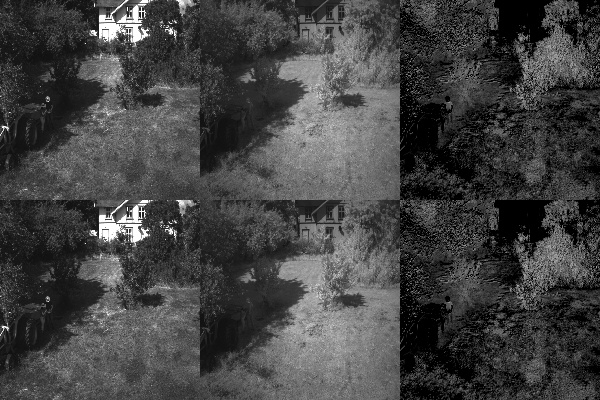
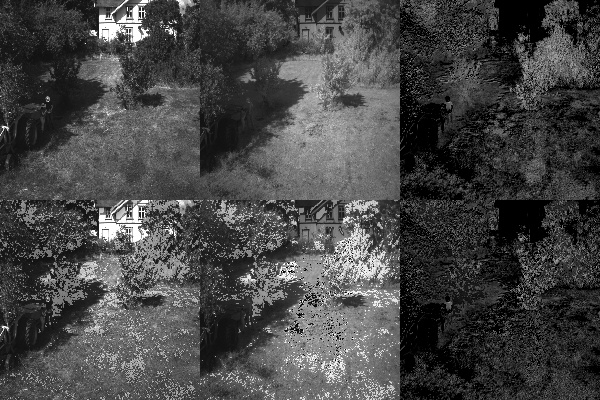
Successful creation of HSV shadow detection method based on false color image of RGB versus RGNIR

diff --git a/Sprint3/overall.py b/Sprint3/overall.py
@@ -300,6 +300,8 @@ def batch_nir_coordination_function():
 	# 0510 is RGB, 0511 is Blue, 0512 is Green, 0513 is Red, 0514 is RedEdge, 0515 is NIR
 
 	rgb_list = []
+	blue_list = []
+	green_list = []
 	red_list = []
 	nir_list = []
 
@@ -310,6 +312,12 @@ def batch_nir_coordination_function():
 		if (fname[-1] == "0"):
 			rgb_image = image
 			rgb_list.append(rgb_image)
+		if (fname[-1] == "1"):
+			blue_image = image
+			blue_list.append(blue_image)
+		if (fname[-1] == "2"):
+			green_image = image
+			green_list.append(green_image)			
 		if (fname[-1] == "3"):
 			red_image = image
 			red_list.append(red_image)
@@ -318,26 +326,27 @@ def batch_nir_coordination_function():
 			nir_list.append(nir_image)
 
 	ndvi_list = []
+	deshadowed_ndvi_list = []
 
 	for i in range(0, len(rgb_list)):
+		# Open images from filepaths
 		rgb_image = cv2.imread(multi_folder + "/" + rgb_list[i])
 		red_image = cv2.imread(multi_folder + "/" + red_list[i])
 		nir_image = cv2.imread(multi_folder + "/" + nir_list[i])
-
-		# Process set of images in selected algorithm - to be developed
-		# red_mask, red_processed, nir_mask, nir_processed = multispectral_algorithm(red_image, nir_image)
+		blue_image = cv2.imread(multi_folder + "/" + blue_list[i])
+		green_image = cv2.imread(multi_folder + "/" + green_list[i])
 
 		# Run and save plant health algorithm on original and de-shadowed images
+
+		deshadowed_red_image, deshadowed_nir_image = nir_b_ratio(blue_image, green_image, red_image, nir_image)
+		deshadowed_ndvi_image = ndvi_plant(deshadowed_red_image, deshadowed_nir_image)
+		deshadowed_ndvi_list.append(deshadowed_ndvi_image)
+		cv2.imwrite(output_folder + "/" + "deshadowed_ndvi_" + str(i) + ".jpg", 255*deshadowed_ndvi_image)
 
 		ndvi_image = ndvi_plant(red_image, nir_image)
 		ndvi_list.append(ndvi_image)
 		cv2.imwrite(output_folder + "/" + "ndvi_" + str(i) + ".jpg", 255*ndvi_image)
 
-		# Replace with results of multispectral deshadowing
-		deshadowed_red_image = red_image
-		deshadowed_nir_image = nir_image
-		deshadowed_ndvi_image = ndvi_image
-		# deshadowed_ndvi_image = ndvi_plant(deshadowed_red_image, deshadowed_nir_image)
 
 		c_red_image = cv2.resize(cv2.cvtColor(red_image, cv2.COLOR_BGR2GRAY), (200,200))
 		c_nir_image = cv2.resize(cv2.cvtColor(nir_image, cv2.COLOR_BGR2GRAY), (200,200))
@@ -383,6 +392,72 @@ def rgb_coordination_function():
 		# need to correct this for negative
 
 	return
+
+def nir_b_ratio(blue_band, green_band, red_band, nir_band):
+	
+	# Shadows become darker than non-shadow regions when comparing RG(B) to RG(NIR)
+	blue_vals = blue_band[:,:,0]
+	green_vals = green_band[:,:,0]
+	red_vals = red_band[:,:,0]
+	nir_vals = nir_band[:,:,0]
+
+	# Create composition image of R,G,B and R,G,NIR
+	rgb_composed = cv2.merge([red_vals, green_vals, blue_vals])
+	rgnir_composed = cv2.merge([red_vals, green_vals, nir_vals])
+
+	# Convert to HSV
+	rgb_hsv = cv2.cvtColor(rgb_composed, cv2.COLOR_RGB2HSV)
+	rgnir_hsv = cv2.cvtColor(rgnir_composed, cv2.COLOR_RGB2HSV)
+
+	# Determine difference in HSV between the two regions
+	difference_hsv = rgb_hsv-rgnir_hsv
+	difference_saturation = rgb_hsv[:,:,1]-rgnir_hsv[:,:,1]
+	difference_value = rgb_hsv[:,:,2]-rgnir_hsv[:,:,2]
+
+	# Convert this image into a mask based on a threshold
+	difference_rgb = cv2.cvtColor(difference_hsv, cv2.COLOR_HSV2RGB)
+	difference_gray = cv2.cvtColor(difference_rgb, cv2.COLOR_RGB2GRAY)
+	difference_gray_blurred = cv2.blur(difference_gray, (5, 5))
+	ret, difference_mask = cv2.threshold(difference_gray_blurred, 127, 255, cv2.THRESH_BINARY)
+
+	# Create an image showing ratio between images
+	# cv2.imshow("RGB Composed", rgb_composed)
+	# cv2.waitKey(0)
+	# cv2.destroyAllWindows()
+	# cv2.imshow("RGNIR Composed", rgnir_composed)
+	# cv2.waitKey(0)
+	# cv2.destroyAllWindows()
+	# cv2.imshow("RGB_HSV Composed", rgb_hsv)
+	# cv2.waitKey(0)
+	# cv2.destroyAllWindows()
+	# cv2.imshow("RGNIR_HSV Composed", rgnir_hsv)
+	# cv2.waitKey(0)
+	# cv2.destroyAllWindows()
+	# cv2.imshow("Difference HSV", difference_hsv)
+	# cv2.waitKey(0)
+	# cv2.destroyAllWindows()
+	# cv2.imshow("Difference RGB",difference_rgb)
+	# cv2.waitKey(0)
+	# cv2.destroyAllWindows()
+	# cv2.imshow("Difference Gray",difference_gray)
+	# cv2.waitKey(0)
+	# cv2.destroyAllWindows()
+	# cv2.imshow("Difference Mask",difference_mask)
+	# cv2.waitKey(0)
+	# cv2.destroyAllWindows()
+
+	# Use this mask to adjust the values of the original RED and NIR
+	deshadowed_red_vals = red_band.copy()
+	deshadowed_nir_vals = nir_band.copy()
+	x_dim, y_dim = red_band.shape[:2]
+
+	for x in range(0, x_dim):
+		for y in range(0, y_dim):
+			if (difference_mask[x, y] == 255):
+				deshadowed_red_vals[x, y] = deshadowed_red_vals[x, y]+100
+				deshadowed_nir_vals[x, y] = deshadowed_nir_vals[x, y]+100
+	
+	return deshadowed_red_vals, deshadowed_nir_vals
 
 if __name__ == "__main__":
 

diff --git a/Sprint3/README.md b/Sprint3/README.md
@@ -1,13 +1,11 @@
 # EC601 Team 12 Project - Sprint 3
 Zachary Halvorson, Boston University Fall 2021
 
-## Sprint 3 To Do List - CHANGE TO "RESULTS" FOR PRESENTATION:
+## Sprint 3 Results
 
 Implement a shadow detection and elimination method that utilizes the multispectral data.
 
-Automate batch testing for additional sets of images from provided dataset
-
-Add in rectangle detection based on the plots, auto averaging and labeling on the images - color code / overlay the NDVI values over each of the regions in the input NIR or RED image (possibly on the RGB image)
+Automated batch testing for additional sets of images from provided dataset
 
 
 ## Multispectral Shadow Removal Results
@@ -19,11 +17,9 @@ Add in rectangle detection based on the plots, auto averaging and labeling on th
 Normalized Difference Vegetation Index = (NIR - Red) / (NIR + Red)
 
 
-IMAGE RESULTS HERE FOR NDVI ON CROPPED REGIONS, BOUNDED BOX, MAPPED EXPORT
-
 ## Sprint 4 Plans:
 
 Determine if image alignment pre-processing step is necessary as the multispectral images do not overlap perfectly.
 
+Work on enhanced data output and processing based on pre-cropped regions or detecting crop bounding boxes automatically.
 
-### [Shadow Detection and Removal Based on YCbCr Color Space](https://github.com/mykhailo-mostipan/shadow-removal)
